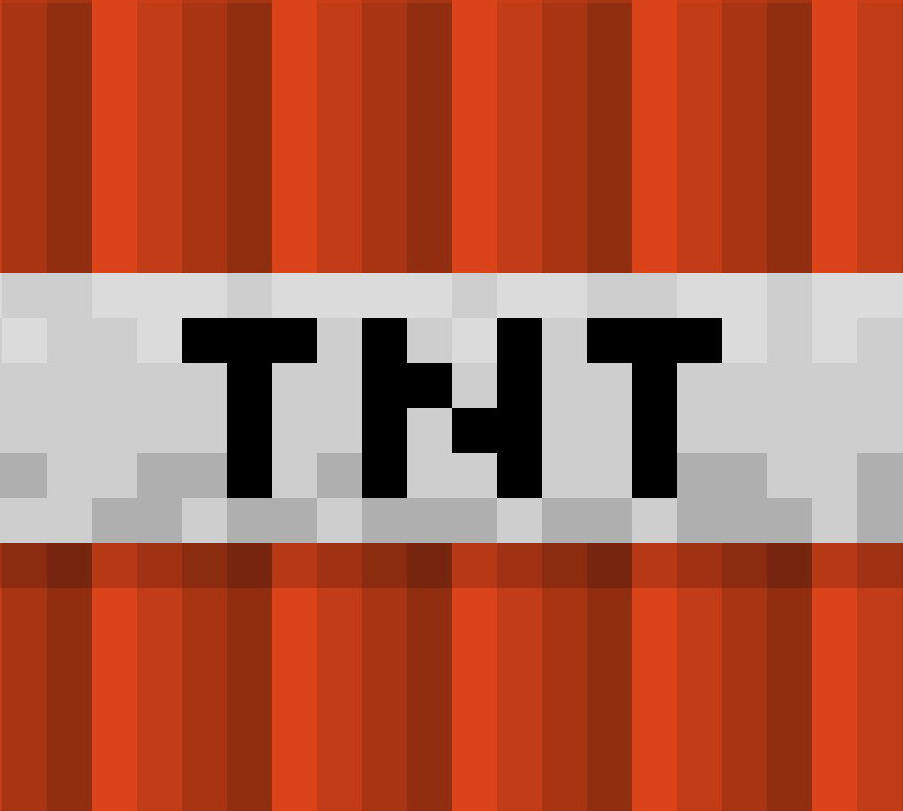
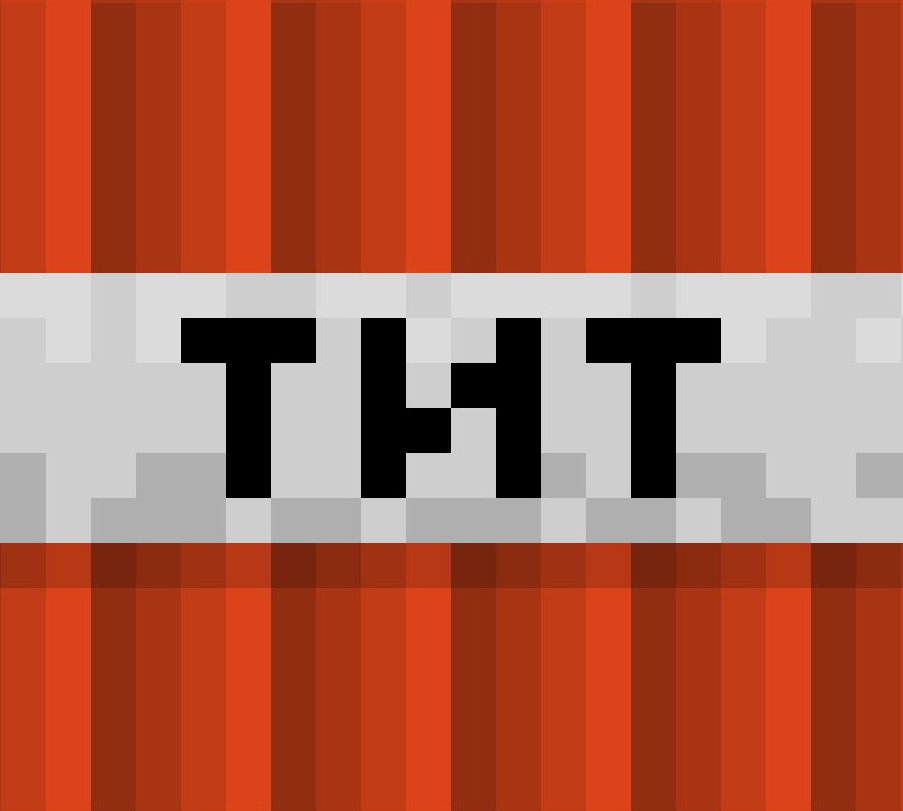
Added a dramatic entrance. Small changes to tnt texture. Changed rotation keys to be more intuitive.

diff --git a/controls.js b/controls.js
@@ -21,10 +21,10 @@ onkeydown = onkeyup = function(e){
     if (map[32]) { //space
         yPosition += 0.2; //0.2
     }
-    if (map[81]) { //q
+    if (map[69]) { //q
         cubeRotation += 0.1; //0.1
     }
-    if (map[69]) { //e
+    if (map[81]) { //e
         cubeRotation -= 0.1; //0.1
     }
 }

diff --git a/index.html b/index.html
@@ -5,7 +5,7 @@
     <title>Title</title>
 </head>
 <body>
-    <canvas id="glcanvas" width="640" height="480"></canvas>
+    <canvas id="glcanvas" width="1280" height="960"></canvas>
 </body>
 </html>
 <script src="gl-matrix.js"></script>

diff --git a/test.js b/test.js
@@ -1,9 +1,9 @@
 /**
  * Created by Dwape on 8/25/18.
  */
-let cubeRotation = 0.0;
+let cubeRotation = 10.0;
 let xPosition = 0.0;
-let yPosition = 0.0;
+let yPosition = 10.0;
 let zPosition = -10.0;
 
 main();
